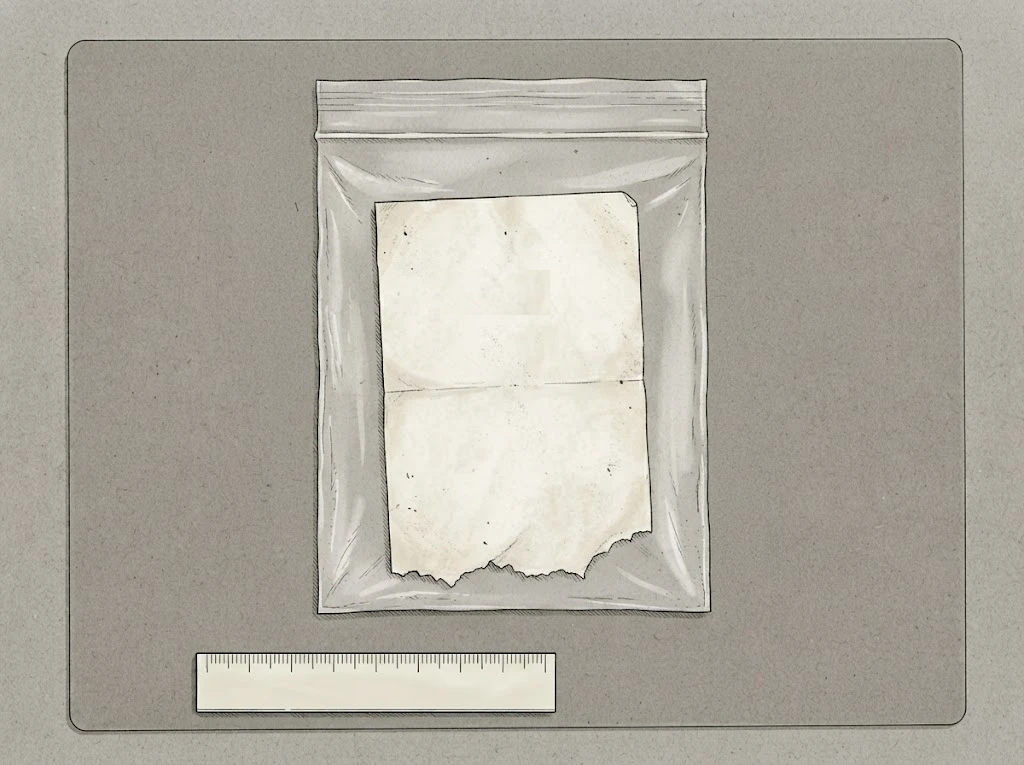
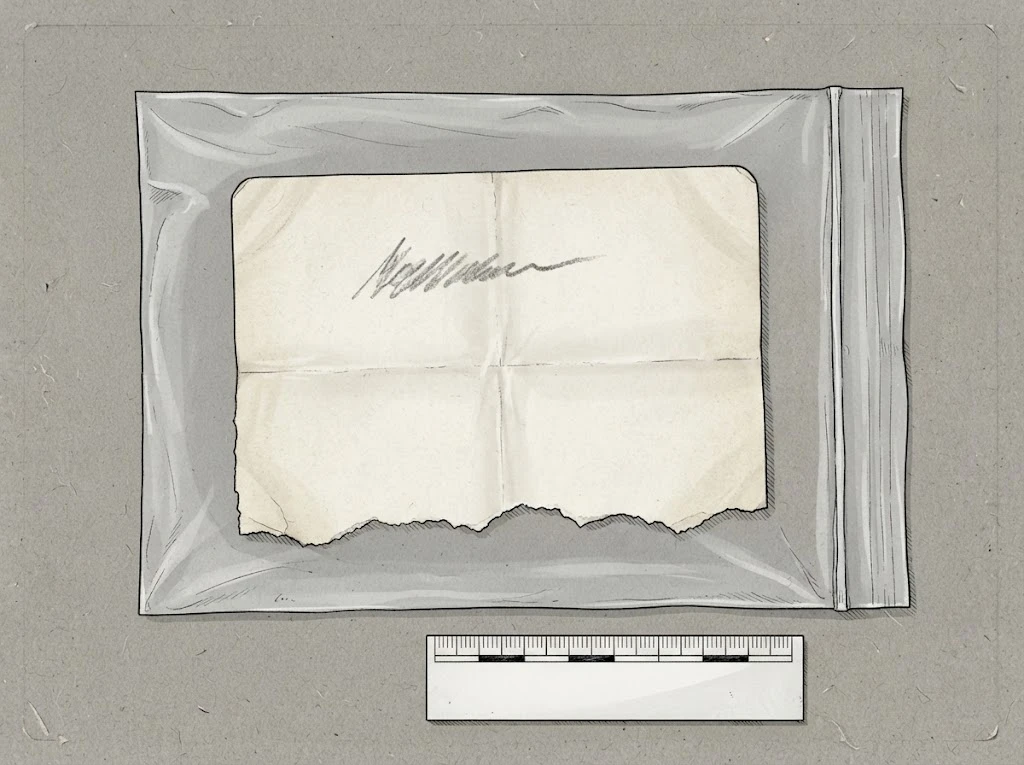
Yenileme: case012_sheet, case013_ledger, case014_note, case016_letters, case027_ledger

diff --git a/Docs/IMAGE_REDO_PROMPTS.md b/Docs/IMAGE_REDO_PROMPTS.md
@@ -50,7 +50,7 @@ Sorun: Kâğıt boş
 A clipboard holding a hospital medicine count sheet with ruled tally columns filled with handwritten marks and illegible scribbles, a few entries circled in red pen. Lying flat on a neutral mid-grey forensic evidence mat, a small plain scale ruler with tick marks but no numbers. Camera: straight top-down, object centred, filling about 60% of the frame. Flat even forensic lighting, soft shadow. Style: 2D hand-drawn ink illustration in the same style as the character portraits: fine black ink linework, cross-hatching and stippling, muted realistic colour wash, not a photograph, not 3D. Absolutely no readable text, letters, numbers, logos or brands.
 ```
 
-## case013_ledger → `Items/case013_ledger.png`
+## ✅ case013_ledger → `Items/case013_ledger.png`
 
 Sorun: Okunur yazı var ("Monthly Rent Statement", "Police…")
 
@@ -60,7 +60,7 @@ Setting: lying flat on a neutral mid-grey forensic evidence mat, a small plain s
 Must NOT contain: any readable letters, numbers or words; any logo, brand, emblem, police crest or real institution name; people or hands; extra objects not listed. IMPORTANT FIX: all text must be blurred squiggles, no readable words or numbers. Absolutely no readable text, letters, numbers, logos, brands or real currency anywhere.
 ```
 
-## case014_note → `Items/case014_note.png`
+## ✅ case014_note → `Items/case014_note.png`
 
 Sorun: Gemini okunur bir ad yazdı ("Maria", vakada yok); silindi, sayfa artık boş, üstünde hafif bir yama var
 
@@ -70,7 +70,7 @@ Setting: lying flat on a neutral mid-grey forensic evidence mat, a small plain s
 Must NOT contain: any readable letters, numbers or words; any logo, brand, emblem, police crest or real institution name; people or hands; extra objects not listed. IMPORTANT FIX: one illegible pencil scrawl, not a name, no readable letters. Absolutely no readable text, letters, numbers, logos, brands or real currency anywhere.
 ```
 
-## case016_letters → `Items/case016_letters.png`
+## ✅ case016_letters → `Items/case016_letters.png`
 
 Sorun: Prompt'taki "angry scrawl" ifadesi imza yerine okunur yazı olarak çizilmiş
 
@@ -80,7 +80,7 @@ Setting: lying flat on a neutral mid-grey forensic evidence mat, a small plain s
 Must NOT contain: any readable letters, numbers or words; any logo, brand, emblem, police crest or real institution name; people or hands; extra objects not listed. IMPORTANT FIX: an illegible scribbled signature, no readable words. Absolutely no readable text, letters, numbers, logos, brands or real currency anywhere.
 ```
 
-## case027_ledger → `Items/case027_ledger.png`
+## ✅ case027_ledger → `Items/case027_ledger.png`
 
 Sorun: Başlıkta okunur "Invoice/INVOICE" yazısı
 

diff --git a/Docs/IMAGE_REDO.md b/Docs/IMAGE_REDO.md
@@ -4,7 +4,7 @@ Portreler ve adli bulgular bitince topluca yeniden üretilecek. Şu anki görsel
 
 | Yol | Sorun | Gemini'ye ek |
 |---|---|---|
-| `Items/case012_sheet` | Boş kâğıt; panoya takılı sayım çizelgesi değil | "clipboard with handwritten tally columns, unreadable, some numbers circled in red" |
+| `Items/case012_sheet` | Yenisi geldi ama başlık okunur: "Hospital Medicine Count Sheet" — yalnız başlıksız tekrar | "clipboard with handwritten tally columns, unreadable, some numbers circled in red" |
 
 Üslup kararı (5 Ekim 2026): bütün bulgular portrelerle aynı 2D mürekkep çizim tarzında; prompt'lardaki "photorealistic" bu tarzla değiştirildi. #011–#012 de bu tarzda yenilenir.
 
@@ -16,10 +16,6 @@ Portreler ve adli bulgular bitince topluca yeniden üretilecek. Şu anki görsel
 - #025–#073: ayrıntılı bulgu prompt'ları her dosyanın `CASE0NN_PROMPTS.md` → "Adli bulgular" bölümünde.
 - Dünya kartpostalları (jp, fr, us, it, es, ca, au): `WORLD_BACKDROP_PROMPTS.md`.
 - Görsel geldikçe bu tabloya sorunlu olanlar eklenir. Bulgular `Bube/Items/caseNNN_<ad>.png` yoluna yazılır; sonra `python3 Tools/bind-items.py` çalıştırılır; oyuna bağlar.
-| `Items/case013_ledger` | Okunur yazı var ("Monthly Rent Statement", "Police…") | "all text must be blurred squiggles, no readable words or numbers" |
-| `Items/case014_note` | Gemini okunur bir ad yazdı ("Maria", vakada yok); silindi, sayfa artık boş, üstünde hafif bir yama var | "one illegible pencil scrawl, not a name, no readable letters" |
-| `Items/case016_letters` | Prompt'taki "angry scrawl" ifadesi imza yerine okunur yazı olarak çizilmiş | "an illegible scribbled signature, no readable words" |
-| `Items/case027_ledger` | Başlıkta okunur "Invoice/INVOICE" yazısı | "remove all text, keep everything else identical" |
 | `Items/case031_notebook` | Sayfalar okunur gibi Japonca yazıyla dolu; zeminde pikselli bozulma | yeni sohbet; "handwriting as illegible wavy lines, no real characters" |
 | `Items/case028–033_*` | Pikselli kenar — 1024×765 olanlar kırpılarak temizlendi; 1024×1024 kalan #028–#029 kontrol edilecek | gerekirse yeniden üret |
 | `Items/case033_envelope` | Gerçek 100 dolarlık banknot (portre, yazı, seri no.) neredeyse fotoğraf gibi çizilmiş; gerçek para + üslup dışı | "plain blank generic paper notes, no portrait, no numbers, no real currency" |
